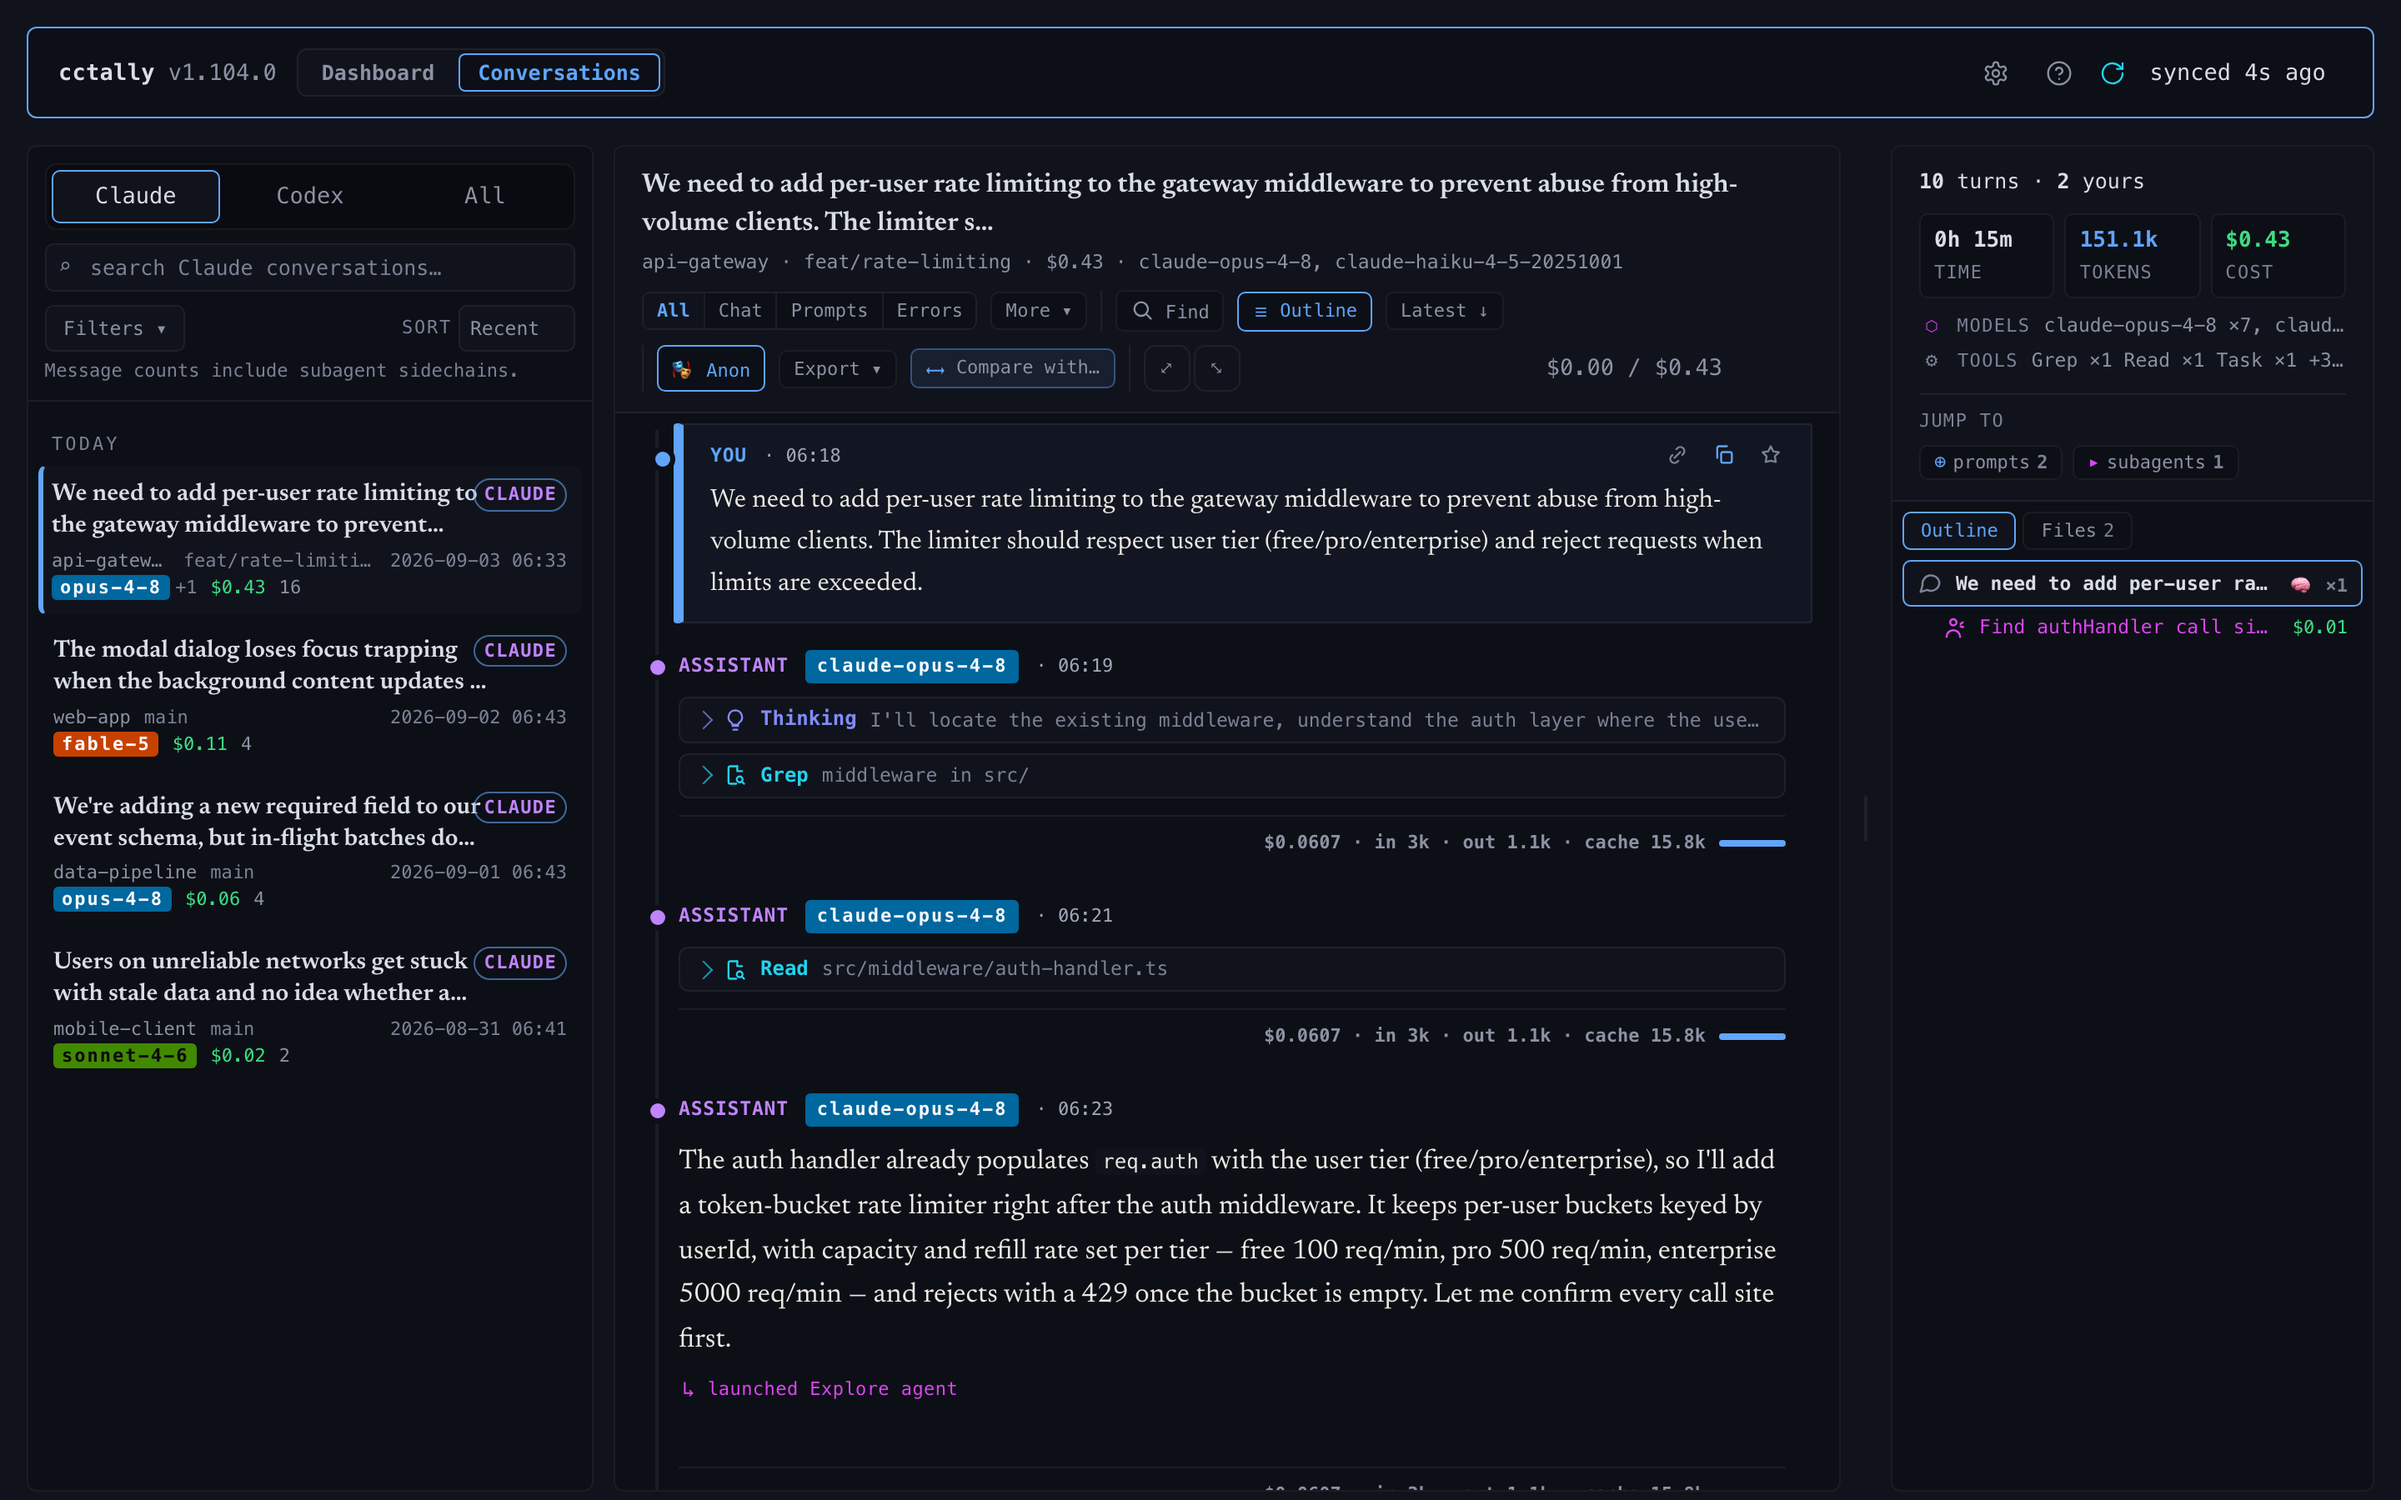
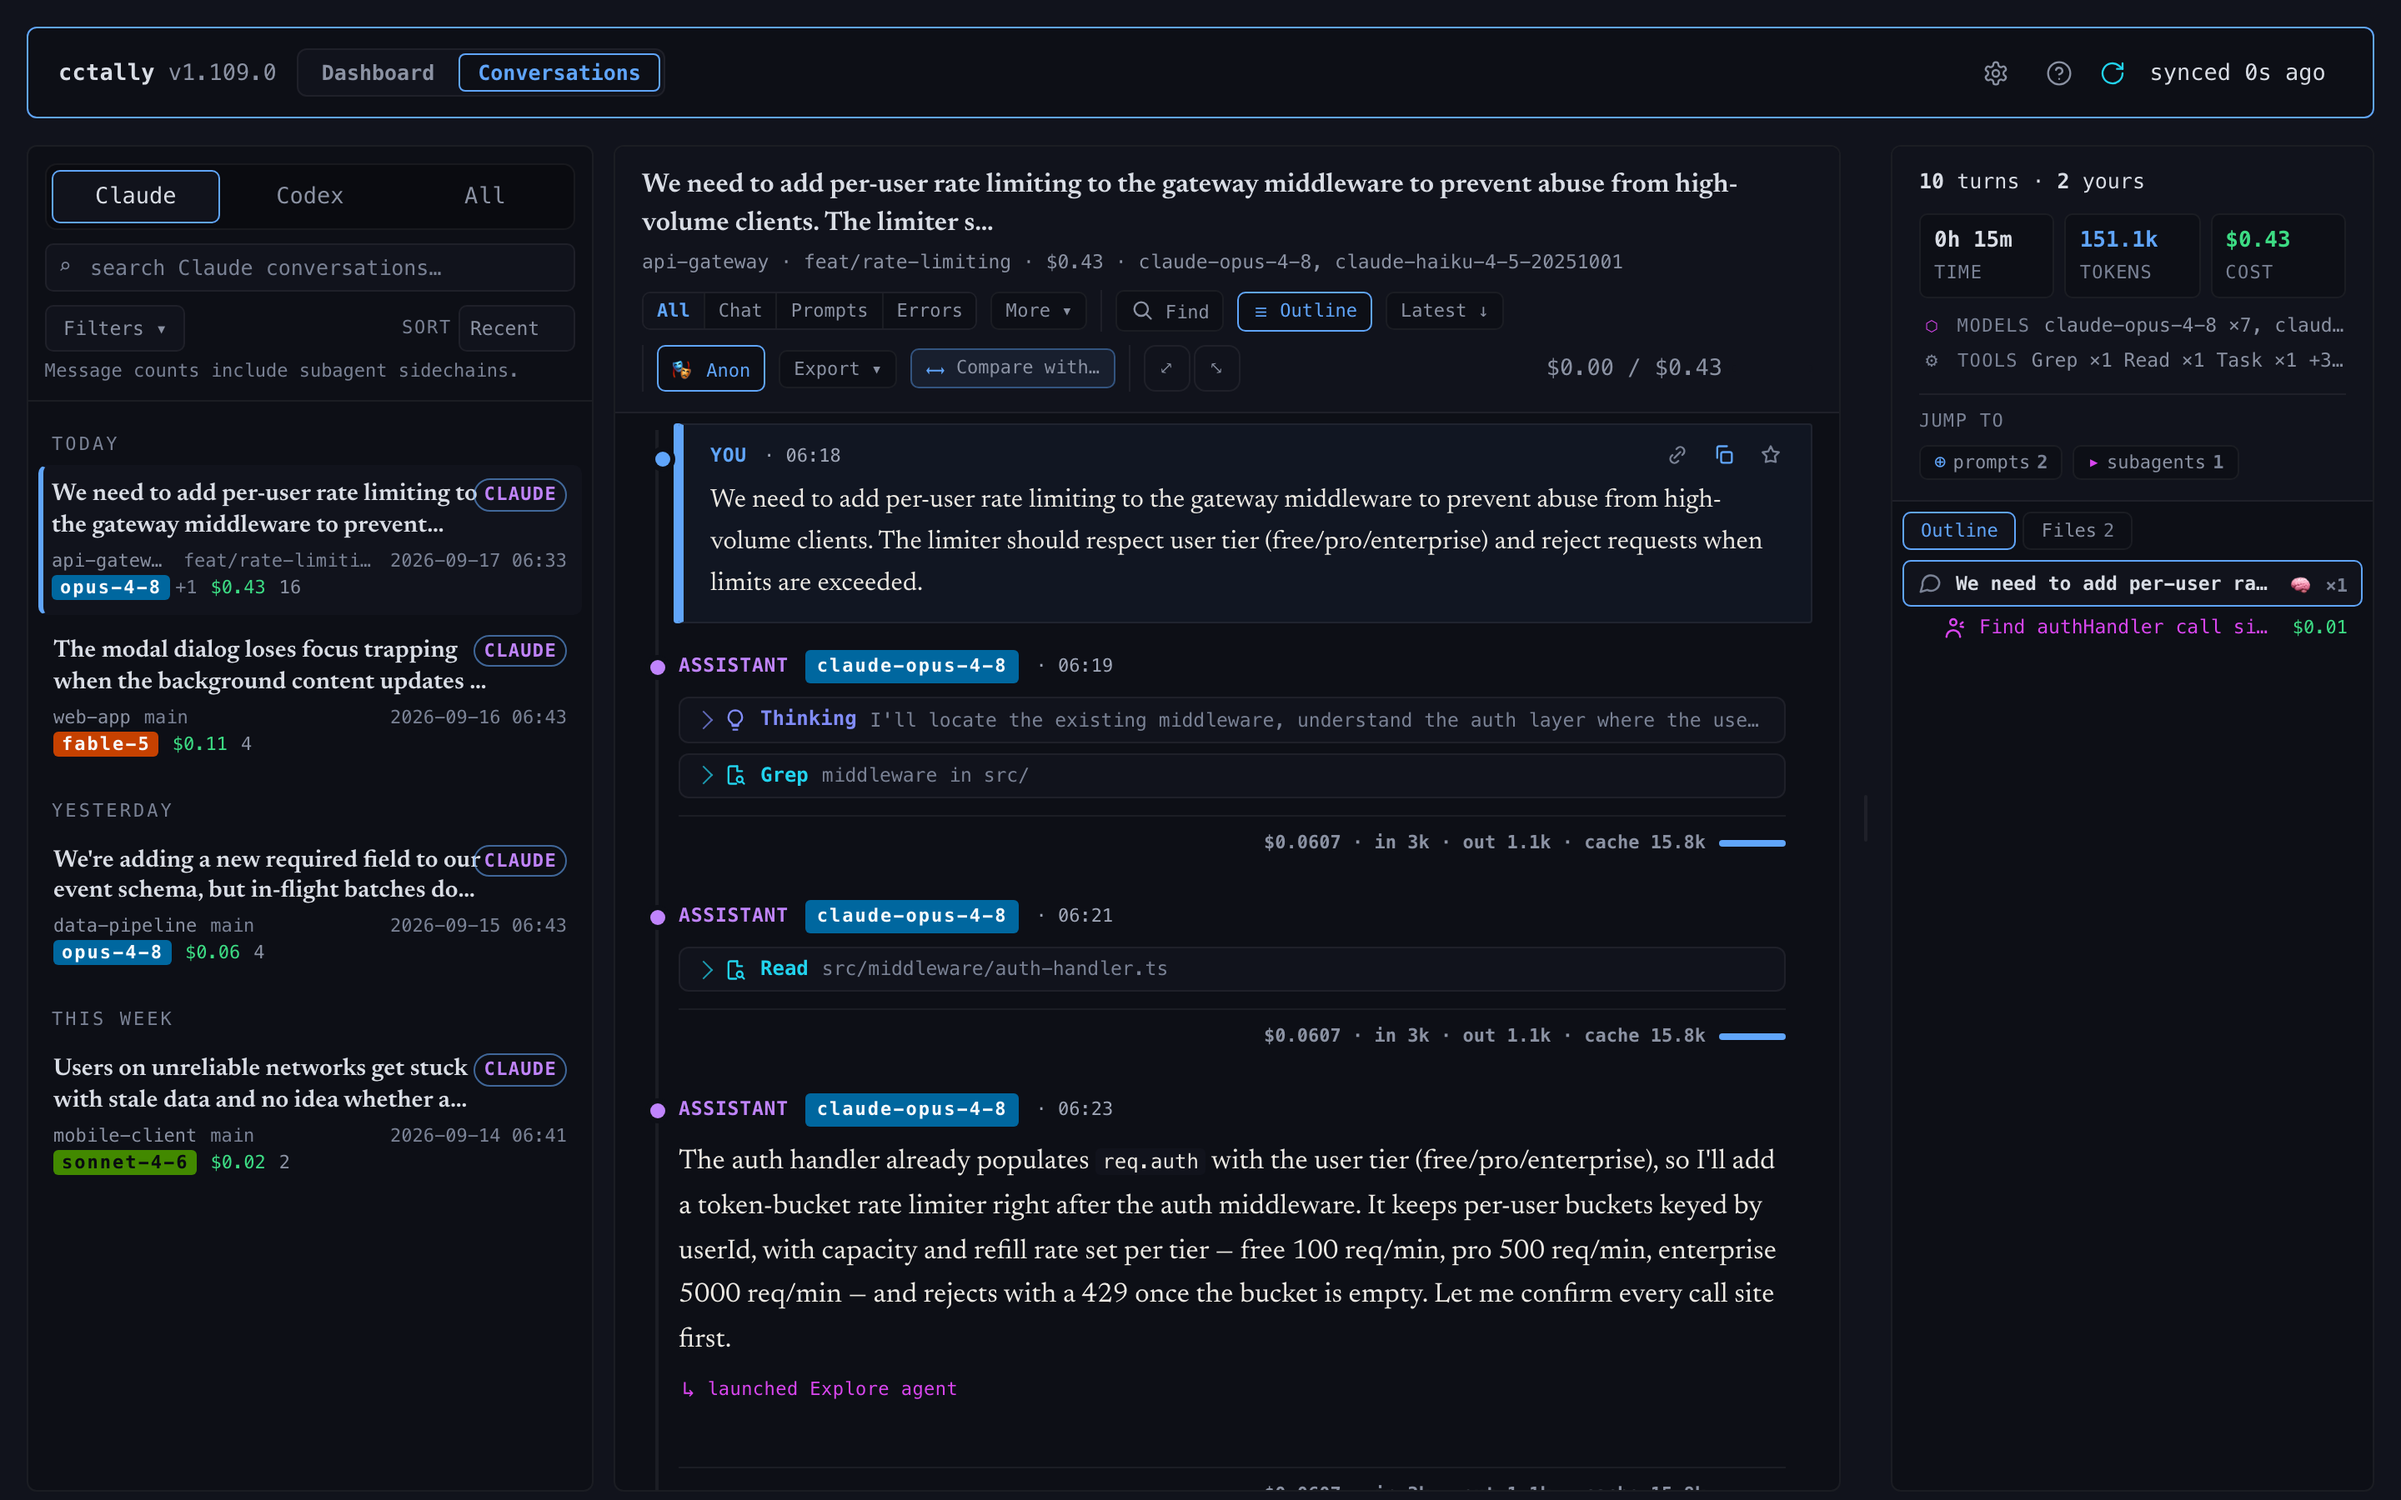
readme refresh for v1.109.0

Changed region(s): [[0.0, 0.5289, 0.25, 0.8089]]

diff --git a/README.md b/README.md
@@ -30,15 +30,15 @@ Your Claude Code plan meters you with a percentage that creeps up all week. ccta
 </p>
 
 <!-- cctally:latest-stable:begin -->
-**Latest stable: v1.104.0** (2026-08-29)
+**Latest stable: v1.109.0** (2026-09-15)
 
-Highlights from the `v1.101.0` to `v1.104.0` stable upgrade:
+Highlights from the `v1.104.0` to `v1.109.0` stable upgrade:
 
-- `cctally quota` reports how much of your weekly quota your usage consumes and whether Anthropic has changed the metering rate, from a budget fitted to your own history rather than a shipped constant. See `docs/commands/quota.md`.
-- `cctally quota --json` publishes the fit, the current week's consumption and projection, the composition support radii and the detector's own bound under `schemaVersion` 1.
-- `cctally quota --reset-calibration` discards the stored calibration for one account, and `--since` and `--watch-from` narrow or override the window the analysis uses.
+- The dashboard picks up a new pricing revision without a restart. It re-reads the deployed pricing file every 60 seconds, adopts a complete newer revision, and keeps serving; no connected client is dropped.
+- The conversation filter popover says `Projects appear once indexing finishes.` in place of `No projects.` while the transcript index is being rebuilt. Model counts stay live on the Claude tab.
+- The dashboard's Projects panel gives every billing cycle of a credited week its own percentage. Both cycles shared one calendar date, and only the later reading survived, so the second cycle could never carry one.
 
-[See every change in this stable upgrade](https://github.com/omrikais/cctally/releases/tag/v1.104.0)
+[See every change in this stable upgrade](https://github.com/omrikais/cctally/releases/tag/v1.109.0)
 <!-- cctally:latest-stable:end -->
 
 ## Quick start
